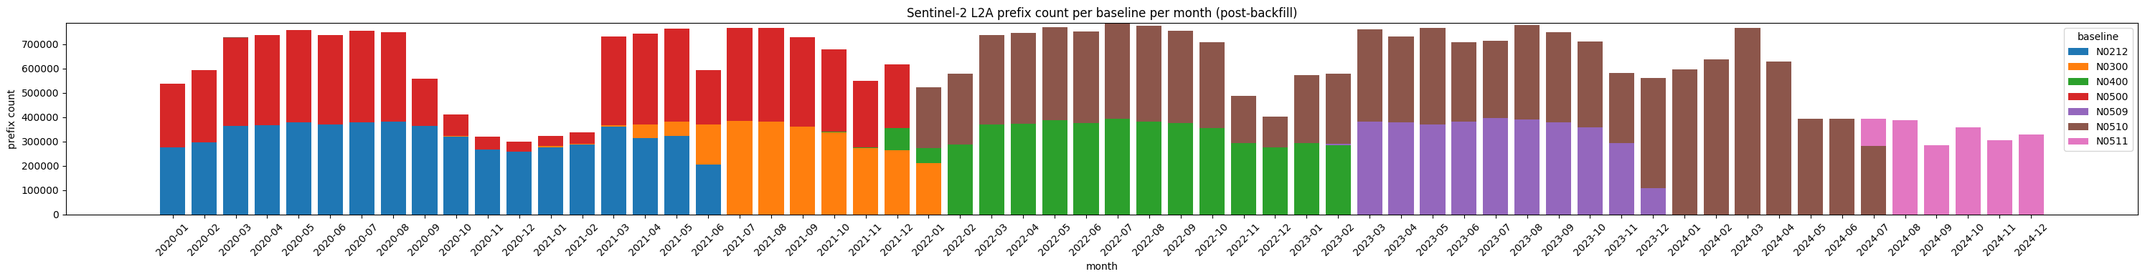
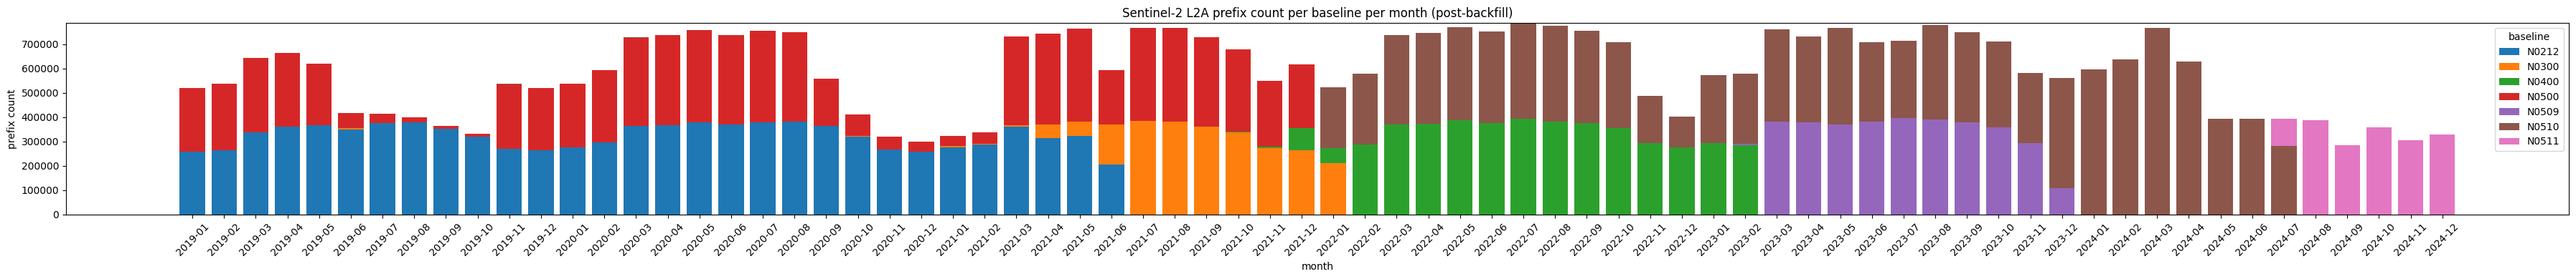
fix: update 2019

diff --git a/notebooks/analysis.md b/notebooks/analysis.md
@@ -34,7 +34,19 @@ months
 
 
 
-    ['2020-01',
+    ['2019-01',
+     '2019-02',
+     '2019-03',
+     '2019-04',
+     '2019-05',
+     '2019-06',
+     '2019-07',
+     '2019-08',
+     '2019-09',
+     '2019-10',
+     '2019-11',
+     '2019-12',
+     '2020-01',
      '2020-02',
      '2020-03',
      '2020-04',
@@ -121,7 +133,7 @@ HTML(table)
 
 
 
-<table><tr><th>month</th><th>created</th></tr><tr><td>2020-01</td><td>2026-06-22 14:12:01</td></tr><tr><td>2020-02</td><td>2026-06-22 14:15:47</td></tr><tr><td>2020-03</td><td>2026-06-22 14:19:44</td></tr><tr><td>2020-04</td><td>2026-06-22 14:24:10</td></tr><tr><td>2020-05</td><td>2026-06-22 14:28:28</td></tr><tr><td>2020-06</td><td>2026-06-22 14:32:47</td></tr><tr><td>2020-07</td><td>2026-06-22 14:37:00</td></tr><tr><td>2020-08</td><td>2026-06-22 14:41:19</td></tr><tr><td>2020-09</td><td>2026-06-22 14:45:39</td></tr><tr><td>2020-10</td><td>2026-06-22 14:49:59</td></tr><tr><td>2020-11</td><td>2026-06-22 14:54:07</td></tr><tr><td>2020-12</td><td>2026-06-22 14:57:46</td></tr><tr><td>2021-01</td><td>2026-06-22 10:06:50</td></tr><tr><td>2021-02</td><td>2026-06-22 10:10:26</td></tr><tr><td>2021-03</td><td>2026-06-22 10:14:14</td></tr><tr><td>2021-04</td><td>2026-06-22 10:18:35</td></tr><tr><td>2021-05</td><td>2026-06-22 10:22:39</td></tr><tr><td>2021-06</td><td>2026-06-22 10:26:50</td></tr><tr><td>2021-07</td><td>2026-06-22 10:30:52</td></tr><tr><td>2021-08</td><td>2026-06-22 10:35:01</td></tr><tr><td>2021-09</td><td>2026-06-22 10:39:14</td></tr><tr><td>2021-10</td><td>2026-06-22 10:43:24</td></tr><tr><td>2021-11</td><td>2026-06-22 13:51:54</td></tr><tr><td>2021-12</td><td>2026-06-22 14:00:07</td></tr><tr><td>2022-01</td><td>2026-06-22 07:26:45</td></tr><tr><td>2022-02</td><td>2026-06-22 07:30:20</td></tr><tr><td>2022-03</td><td>2026-06-22 07:34:02</td></tr><tr><td>2022-04</td><td>2026-06-22 07:38:19</td></tr><tr><td>2022-05</td><td>2026-06-22 07:42:27</td></tr><tr><td>2022-06</td><td>2026-06-22 08:28:20</td></tr><tr><td>2022-07</td><td>2026-06-22 08:32:37</td></tr><tr><td>2022-08</td><td>2026-06-22 08:52:52</td></tr><tr><td>2022-09</td><td>2026-06-22 08:57:13</td></tr><tr><td>2022-10</td><td>2026-06-22 09:01:29</td></tr><tr><td>2022-11</td><td>2026-06-22 09:05:44</td></tr><tr><td>2022-12</td><td>2026-06-22 09:09:24</td></tr><tr><td>2023-01</td><td>2026-06-18 15:38:48</td></tr><tr><td>2023-02</td><td>2026-06-18 15:42:36</td></tr><tr><td>2023-03</td><td>2026-06-18 15:46:28</td></tr><tr><td>2023-04</td><td>2026-06-18 15:50:52</td></tr><tr><td>2023-05</td><td>2026-06-18 15:55:00</td></tr><tr><td>2023-06</td><td>2026-06-18 15:59:15</td></tr><tr><td>2023-07</td><td>2026-06-18 16:03:22</td></tr><tr><td>2023-08</td><td>2026-06-18 16:07:37</td></tr><tr><td>2023-09</td><td>2026-06-18 16:11:54</td></tr><tr><td>2023-10</td><td>2026-06-18 16:16:11</td></tr><tr><td>2023-11</td><td>2026-06-22 06:39:18</td></tr><tr><td>2023-12</td><td>2026-06-22 06:43:01</td></tr><tr><td>2024-01</td><td>2026-06-18 14:10:36</td></tr><tr><td>2024-02</td><td>2026-06-18 14:14:19</td></tr><tr><td>2024-03</td><td>2026-06-18 14:18:12</td></tr><tr><td>2024-04</td><td>2026-06-18 14:22:31</td></tr><tr><td>2024-05</td><td>2026-06-18 14:26:33</td></tr><tr><td>2024-06</td><td>2026-06-18 14:30:36</td></tr><tr><td>2024-07</td><td>2026-06-18 14:34:40</td></tr><tr><td>2024-08</td><td>2026-06-18 14:38:51</td></tr><tr><td>2024-09</td><td>2026-06-18 14:43:06</td></tr><tr><td>2024-10</td><td>2026-06-18 14:46:33</td></tr><tr><td>2024-11</td><td>2026-06-18 14:50:47</td></tr><tr><td>2024-12</td><td>2026-06-18 14:54:32</td></tr></table>
+<table><tr><th>month</th><th>created</th></tr><tr><td>2019-01</td><td>2026-06-22 15:40:28</td></tr><tr><td>2019-02</td><td>2026-06-22 15:54:50</td></tr><tr><td>2019-03</td><td>2026-06-22 16:02:14</td></tr><tr><td>2019-04</td><td>2026-06-22 16:10:34</td></tr><tr><td>2019-05</td><td>2026-06-22 16:18:51</td></tr><tr><td>2019-06</td><td>2026-06-22 16:27:08</td></tr><tr><td>2019-07</td><td>2026-06-22 16:35:08</td></tr><tr><td>2019-08</td><td>2026-06-22 16:43:28</td></tr><tr><td>2019-09</td><td>2026-06-22 16:51:50</td></tr><tr><td>2019-10</td><td>2026-06-22 17:00:24</td></tr><tr><td>2019-11</td><td>2026-06-23 07:58:52</td></tr><tr><td>2019-12</td><td>2026-06-23 08:02:18</td></tr><tr><td>2020-01</td><td>2026-06-22 14:12:01</td></tr><tr><td>2020-02</td><td>2026-06-22 14:15:47</td></tr><tr><td>2020-03</td><td>2026-06-22 14:19:44</td></tr><tr><td>2020-04</td><td>2026-06-22 14:24:10</td></tr><tr><td>2020-05</td><td>2026-06-22 14:28:28</td></tr><tr><td>2020-06</td><td>2026-06-22 14:32:47</td></tr><tr><td>2020-07</td><td>2026-06-22 14:37:00</td></tr><tr><td>2020-08</td><td>2026-06-22 14:41:19</td></tr><tr><td>2020-09</td><td>2026-06-22 14:45:39</td></tr><tr><td>2020-10</td><td>2026-06-22 14:49:59</td></tr><tr><td>2020-11</td><td>2026-06-22 14:54:07</td></tr><tr><td>2020-12</td><td>2026-06-22 14:57:46</td></tr><tr><td>2021-01</td><td>2026-06-22 10:06:50</td></tr><tr><td>2021-02</td><td>2026-06-22 10:10:26</td></tr><tr><td>2021-03</td><td>2026-06-22 10:14:14</td></tr><tr><td>2021-04</td><td>2026-06-22 10:18:35</td></tr><tr><td>2021-05</td><td>2026-06-22 10:22:39</td></tr><tr><td>2021-06</td><td>2026-06-22 10:26:50</td></tr><tr><td>2021-07</td><td>2026-06-22 10:30:52</td></tr><tr><td>2021-08</td><td>2026-06-22 10:35:01</td></tr><tr><td>2021-09</td><td>2026-06-22 10:39:14</td></tr><tr><td>2021-10</td><td>2026-06-22 10:43:24</td></tr><tr><td>2021-11</td><td>2026-06-22 13:51:54</td></tr><tr><td>2021-12</td><td>2026-06-22 14:00:07</td></tr><tr><td>2022-01</td><td>2026-06-22 07:26:45</td></tr><tr><td>2022-02</td><td>2026-06-22 07:30:20</td></tr><tr><td>2022-03</td><td>2026-06-22 07:34:02</td></tr><tr><td>2022-04</td><td>2026-06-22 07:38:19</td></tr><tr><td>2022-05</td><td>2026-06-22 07:42:27</td></tr><tr><td>2022-06</td><td>2026-06-22 08:28:20</td></tr><tr><td>2022-07</td><td>2026-06-22 08:32:37</td></tr><tr><td>2022-08</td><td>2026-06-22 08:52:52</td></tr><tr><td>2022-09</td><td>2026-06-22 08:57:13</td></tr><tr><td>2022-10</td><td>2026-06-22 09:01:29</td></tr><tr><td>2022-11</td><td>2026-06-22 09:05:44</td></tr><tr><td>2022-12</td><td>2026-06-22 09:09:24</td></tr><tr><td>2023-01</td><td>2026-06-18 15:38:48</td></tr><tr><td>2023-02</td><td>2026-06-18 15:42:36</td></tr><tr><td>2023-03</td><td>2026-06-18 15:46:28</td></tr><tr><td>2023-04</td><td>2026-06-18 15:50:52</td></tr><tr><td>2023-05</td><td>2026-06-18 15:55:00</td></tr><tr><td>2023-06</td><td>2026-06-18 15:59:15</td></tr><tr><td>2023-07</td><td>2026-06-18 16:03:22</td></tr><tr><td>2023-08</td><td>2026-06-18 16:07:37</td></tr><tr><td>2023-09</td><td>2026-06-18 16:11:54</td></tr><tr><td>2023-10</td><td>2026-06-18 16:16:11</td></tr><tr><td>2023-11</td><td>2026-06-22 06:39:18</td></tr><tr><td>2023-12</td><td>2026-06-22 06:43:01</td></tr><tr><td>2024-01</td><td>2026-06-18 14:10:36</td></tr><tr><td>2024-02</td><td>2026-06-18 14:14:19</td></tr><tr><td>2024-03</td><td>2026-06-18 14:18:12</td></tr><tr><td>2024-04</td><td>2026-06-18 14:22:31</td></tr><tr><td>2024-05</td><td>2026-06-18 14:26:33</td></tr><tr><td>2024-06</td><td>2026-06-18 14:30:36</td></tr><tr><td>2024-07</td><td>2026-06-18 14:34:40</td></tr><tr><td>2024-08</td><td>2026-06-18 14:38:51</td></tr><tr><td>2024-09</td><td>2026-06-18 14:43:06</td></tr><tr><td>2024-10</td><td>2026-06-18 14:46:33</td></tr><tr><td>2024-11</td><td>2026-06-18 14:50:47</td></tr><tr><td>2024-12</td><td>2026-06-18 14:54:32</td></tr></table>
 
 
 
